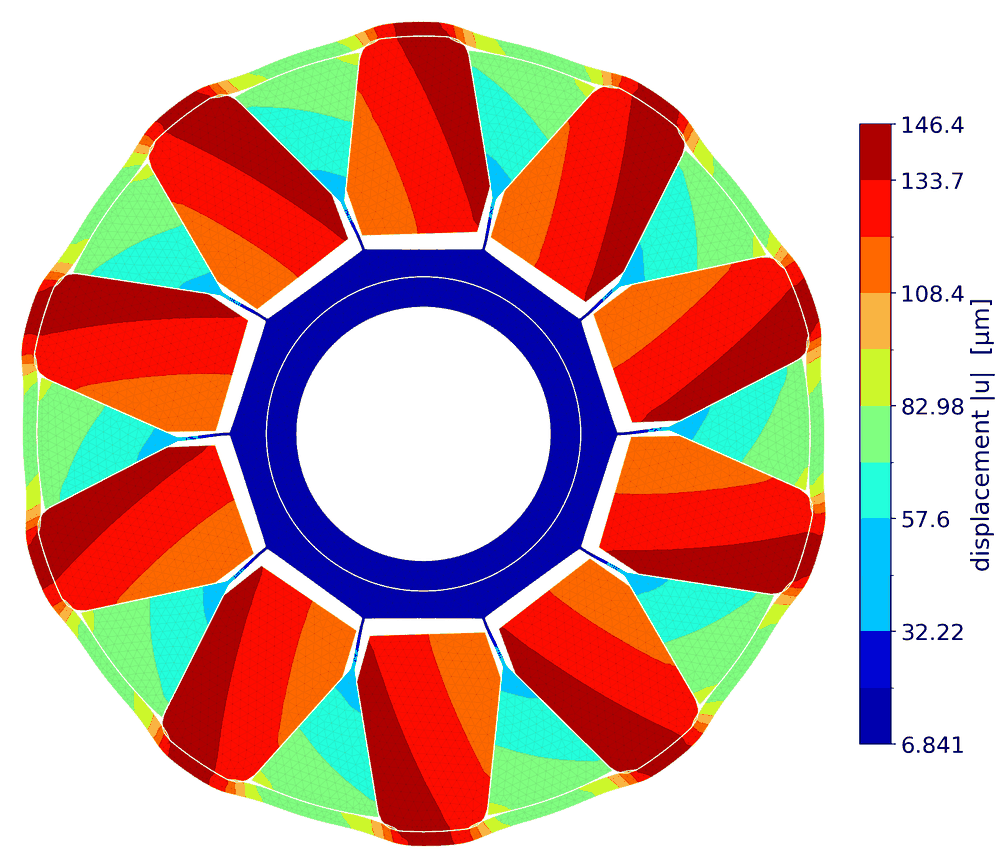
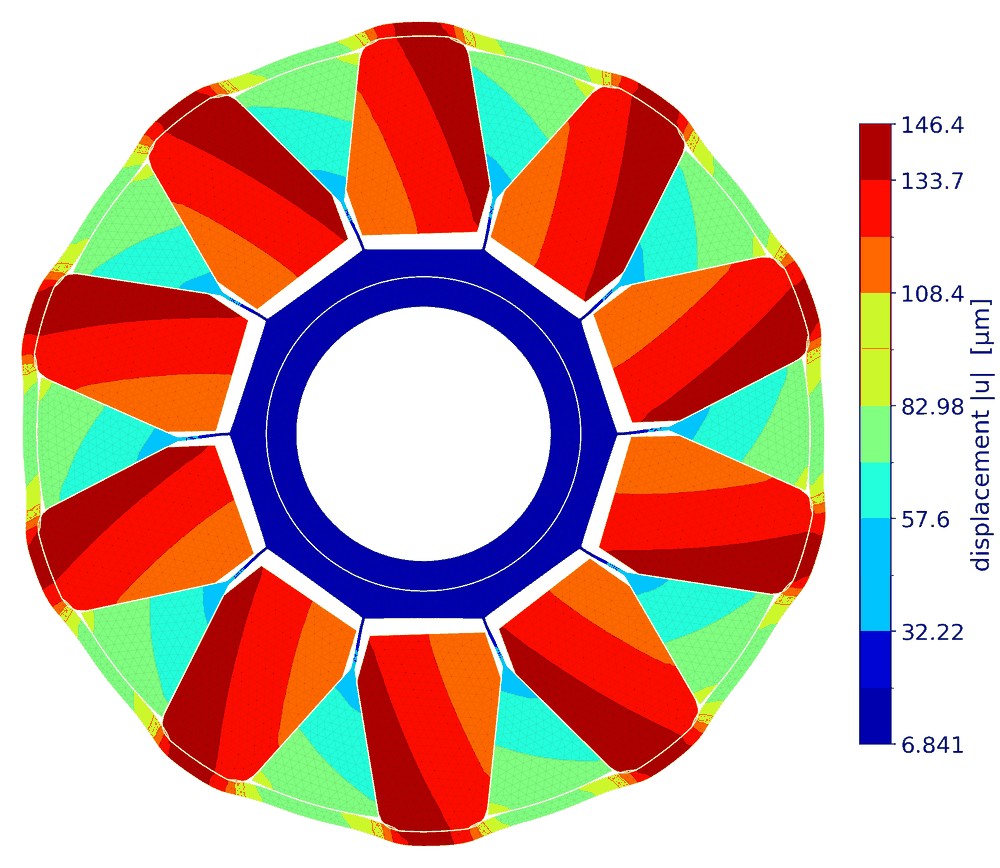
web: one cut for all three landing cards — the whole machine
User 2026-09-16, on the second live page: the three pictures must show the
SAME section of the machine, and preferably the whole of it.  They did not —
the mechanical solve is a full 360 deg ring, and the electromagnetic and
thermal solves are stored as HALF models (both span exactly 180 deg; this
machine is 12 slots / 10 poles, so its smallest periodic sector is a half),
so two round-cornered 2.2:1 wedges sat beside a disc.

The report builders have no full-section option and the fields really are
halves, so the generator completes those two to the full ring — for the
PICTURE only, and by ROTATING the solved half 180 deg, not by mirroring.
That rotation is the periodic continuation the solve itself assumed, so it is
what the other half of the machine actually is; |B| is a magnitude and T is a
scalar, so both survive the sign flip an anti-periodic boundary would carry.
Coincident nodes on the seam are merged, or the per-class nodal average would
paint a hairline down the joint.  The completed mesh then goes through the
SAME builders as before — report._em_maps / _thermal_map / _mech_extra_maps —
so the colour scales are untouched: |B| still caps at 2.39 T (p99.5, raw max
3.63) and the temperature bar still runs 68.93 to 135.2 C, the same numbers
the half pictures carried.  report.py is not changed; the report still prints
the half it solved.

All three are now 1.15:1, so the card box tightens 1.4 -> 1.25:1 (~354 px tall
[…]

diff --git a/web/src/components/landing/Landing.tsx b/web/src/components/landing/Landing.tsx
@@ -24,9 +24,23 @@
  * off the stored per-duty fields (`motor_ai_sim.duty_fields`) — not stock art,
  * not a redraw:
  *
- *   em-field.png    report._em_maps(...)["b"]        CIANO10 200 opt / "L155 motor" / rated 1x9 mm
- *   thermal-map.png report._thermal_map(...)          the same die, configuration and duty
- *   campbell.png    report._campbell_png(...)         the same duty's critical-speed record
+ *   em-field.png            report._em_maps(...)["b"]
+ *   thermal-map.png         report._thermal_map(...)
+ *   rotor-displacement.png  report._mech_extra_maps(...)["disp"]
+ *
+ * all three off CIANO10 200 opt / "L155 motor" / rated 1x9 mm, so the three
+ * cards are one machine at one operating point rather than three unrelated
+ * pretty pictures.
+ *
+ * ONE CUT, THE WHOLE MACHINE (user 2026-09-16).  The mechanical solve is a full
+ * 360° ring; the electromagnetic and thermal ones are stored as HALF models —
+ * this machine is 12 slots / 10 poles, so its smallest periodic sector is a
+ * half, and their figures came out 2.2:1 beside a round rotor.  The generator
+ * completes those two to the full ring by ROTATING the solved half 180°, which
+ * is the periodic continuation the solve itself assumed; |B| is a magnitude and
+ * T is a scalar, so both survive the sign flip an anti-periodic boundary would
+ * carry, and the seam nodes are merged so the ring closes with no hairline.
+ * Nothing in report.py changes: the report still prints the half it solved.
  *
  * They are drawn on white — the report's own background — and sit on a white
  * tile in both themes, so the figure looks the same here as it does on the page
@@ -60,16 +74,20 @@ export const FEATURES: Feature[] = [
   {
     label: 'Electromagnetic FEM',
     src: '/landing/em-field.png',
-    alt: 'Flux-density map of a permanent-magnet machine: half the cross-section '
-      + 'coloured by |B| from 0 to 2.4 tesla, with the colour bar beside it.',
-    hint: 'Flux density |B| — the solved field of a 200 mm machine at its rated duty.',
+    alt: 'Flux-density map of a permanent-magnet machine: the whole '
+      + 'cross-section, twelve slots around ten magnets, coloured by |B| from '
+      + '0 to 2.4 tesla, with the colour bar beside it.',
+    hint: 'Flux density |B| of a 200 mm machine at its rated duty — the solved '
+      + 'half repeated to the full ring, which is the periodicity the solve '
+      + 'itself assumed.',
   },
   {
     label: 'Thermal & duty cycle',
     src: '/landing/thermal-map.png',
-    alt: 'Temperature map of the same cross-section, from 69 °C at the outer '
-      + 'housing to 135 °C in the rotor, with the colour bar beside it.',
-    hint: 'Temperature of the same machine, coupled to the losses of the same run.',
+    alt: 'Temperature map of the same whole cross-section, from 69 °C at the '
+      + 'outer housing to 135 °C in the rotor, with the colour bar beside it.',
+    hint: 'Temperature of the same machine, coupled to the losses of the same '
+      + 'run — the solved half repeated to the full ring, as above.',
   },
   {
     label: 'Mechanical simulation',
@@ -141,16 +159,20 @@ const FeatureCard: React.FC<{ feature: Feature }> = ({ feature }) => (
       {/* The figure keeps the report's own white ground in both themes, so the
           picture on the card and the picture on the page are one picture.
           THE PICTURE IS THE CARD (user 2026-09-16, on the first live page: the
-          images were ~180 px tall and he wanted them to dominate).  1.4:1 is the
-          tallest box the three fit: the rotor is 1.15:1 and fills its height
-          exactly, the two half-machine maps are 2.2:1 and keep a white band
-          above and below — invisible, because the figures' own ground is the
-          same white.  A taller box would only add white; a wider row is the
-          other half of the answer, and that is on the grid below. */}
+          images were ~180 px tall and he wanted them to dominate).  All three
+          are now the SAME CUT of the machine — the whole 360° ring, 1.15:1 —
+          so 1.25:1 is a box they all very nearly fill, ~354 px tall at 1440.
+          They were not always: the electromagnetic and thermal solves are
+          stored as half models and their pictures came out 2.2:1 beside a
+          round rotor (user, on the second live page: the three must show the
+          same section).  The halves are repeated to the full ring when the
+          PNGs are generated — by ROTATING 180°, which is the periodicity the
+          solve itself assumed, not by mirroring — and never in the report,
+          which still prints the half it solved. */}
       <Box sx={{
-        bgcolor: '#ffffff', aspectRatio: '1.4 / 1', p: 0.75,
+        bgcolor: '#ffffff', aspectRatio: '1.25 / 1', p: 0.75,
         // `minHeight: 0` or the flex box's automatic minimum lets a picture
-        // TALLER than 3:2 (the rotor is 1.15:1) push the box past its own
+        // TALLER than the declared ratio push the box past its own
         // aspect ratio — which is how the third card came out 80 px taller
         // than the other two, with white under their labels to match.
         minHeight: 0, overflow: 'hidden',

diff --git a/web/src/App.tsx b/web/src/App.tsx
@@ -148,13 +148,6 @@ const GeometryBuildTimer: React.FC = () => {
 function App() {
   const [themeMode, setThemeMode] = useState<AppMode>(() => loadThemeMode());
   useEffect(() => { saveThemeMode(themeMode); }, [themeMode]);
-  // Adopt the server's mesh block into the browser's mesh.* keys once per
-  // boot — see lib/meshConfigSync for the full-ring sweep this prevents.
-  // HERE, at the root: it used to sit in GeometryBuildTimer, which mounts
-  // only with the Geometry tab, so a browser that opened on Thermal or
-  // Electromagnetic never synced at all — the user's F5 kept "4 sectors"
-  // from the Ø200 on a 12/14 machine (2026-09-09, "нажимаю, но то же самое").
-  useEffect(() => { void syncMeshConfigFromServer(); }, []);
   const appTheme = useMemo(() => buildAppTheme(themeMode), [themeMode]);
   const { activeTab, setActiveTab, showGrid, showAxes, toggleGrid, toggleAxes } = useUIStore();
   const { user, isAdmin, tier, enforced, resolved: authResolved } = useAuth();
@@ -261,6 +254,20 @@ function App() {
     loadServerSweepConfig();
   }, [authPending, signedIn, fetchGeometryFromApi, fetchSchemaFromApi, loadServerSweepConfig]);
 
+  // Adopt the server's mesh block into the browser's mesh.* keys once per
+  // boot — see lib/meshConfigSync for the full-ring sweep this prevents.
+  // HERE, at the root: it used to sit in GeometryBuildTimer, which mounts
+  // only with the Geometry tab, so a browser that opened on Thermal or
+  // Electromagnetic never synced at all — the user's F5 kept "4 sectors"
+  // from the Ø200 on a 12/14 machine (2026-09-09, "нажимаю, но то же самое").
+  // Behind the same gate as the probes above: /api/mesh/config is closed to an
+  // anonymous caller, and the sync has nothing to adopt until there is a
+  // session whose machine it belongs to (401 measured live, 2026-09-16).
+  useEffect(() => {
+    if (authPending || !signedIn) return;
+    void syncMeshConfigFromServer();
+  }, [authPending, signedIn]);
+
   // RECONNECT: the boot probe above runs once, and a backend that was merely
   // slow to wake (first request after a restart imports the whole solver
   // stack) left the app stuck in "Local Mode" until a manual reload — a
@@ -302,7 +309,16 @@ function App() {
   // There's always a working motor ("my copy"): a brand-new user with none gets
   // one created from the current state, so every later edit has somewhere to
   // auto-save.  A short delay lets the panels seed localStorage first.
-  useEffect(() => { const t = setTimeout(() => { ensureActiveMotor(); }, 1200); return () => clearTimeout(t); }, []);
+  // "A brand-new USER" is the point: with nobody signed in there is no account
+  // to own the motor, and the POST /api/presets went out 1.2 s into an
+  // anonymous visit and came back 401 (live, 2026-09-16).  Same gate as the
+  // probes; signing in re-arms the timer, so the first working motor is still
+  // created the moment there is somebody to create it for.
+  useEffect(() => {
+    if (authPending || !signedIn) return;
+    const t = setTimeout(() => { ensureActiveMotor(); }, 1200);
+    return () => clearTimeout(t);
+  }, [authPending, signedIn]);
 
   // The Simulation panel is kept mounted but hidden via display:none while
   // another tab is active.  recharts' ResponsiveContainer measures 0×0 inside

diff --git a/web/src/components/materials/useMotorAssignments.ts b/web/src/components/materials/useMotorAssignments.ts
@@ -10,7 +10,7 @@
  * default directly via PATCH, exactly as before.
  */
 import { useState, useEffect, useCallback } from 'react';
-import { useAuth } from '../../contexts/AuthContext';
+import { useAuth, useApiReady } from '../../contexts/AuthContext';
 import { setDutyMaterial } from '../../lib/dutySettings';
 import { useMotorStore } from '../../stores/motorStore';
 
@@ -39,6 +39,11 @@ function readLocalOverlay(): Partial<MotorAssignments> {
 
 export function useMotorAssignments() {
   const { isAdmin, enforced, tier } = useAuth();
+  // GET /api/materials answers 401 to an anonymous caller, and this hook
+  // mounts at the App root (MaterialOverrideSync) — the landing's first paint
+  // knocked on it (live, 2026-09-16).  Same gate as the geometry/schema
+  // probes; signing in re-runs the effect below and fills the assignment.
+  const ready = useApiReady();
   // Ordinary user on an enforced backend → assignments live client-side.
   const localMode = enforced && !isAdmin;
   // Free-tier client → the motor card's materials are read-only (pro/team
@@ -51,6 +56,7 @@ export function useMotorAssignments() {
   const [error, setError]             = useState<string | null>(null);
 
   const refresh = useCallback(() => {
+    if (!ready) return;
     setLoading(true);
     fetch(API, { cache: 'no-store' })
       .then(r => { if (!r.ok) throw new Error(`HTTP ${r.status}`); return r.json(); })
@@ -60,7 +66,7 @@ export function useMotorAssignments() {
         setAssignments(merged); setLoading(false);
       })
       .catch(e => { setError(String(e)); setLoading(false); });
-  }, [localMode]);
+  }, [localMode, ready]);
 
   // The part LIST depends on the geometry: a sleeve exists only while
   // sleeve_thickness > 0, and the backend adds/drops the `sleeve` key of the

diff --git a/web/src/components/materials/useMaterialsLibrary.ts b/web/src/components/materials/useMaterialsLibrary.ts
@@ -14,7 +14,7 @@
 import { useCallback, useEffect, useMemo, useState } from 'react';
 import { collection, getDocs } from 'firebase/firestore';
 import { db } from '../../lib/firebase';
-import { useAuth } from '../../contexts/AuthContext';
+import { useAuth, useApiReady } from '../../contexts/AuthContext';
 
 // ─── Types (mirror Python dataclasses) ───────────────────────────────────────
 
@@ -152,6 +152,7 @@ async function readMine(uid: string): Promise<MineLayer> {
 
 export function useMaterialsLibrary() {
   const { user } = useAuth();
+  const ready = useApiReady();
   const uid = user?.uid ?? null;
 
   const [base, setBase] = useState<MaterialsLibrary | null>(null);  // built-in + global
@@ -168,7 +169,15 @@ export function useMaterialsLibrary() {
       .catch(e => { setError(String(e)); setLoading(false); });
   }, []);
 
-  useEffect(() => { reloadBase(); }, [reloadBase]);
+  // NOT before /api/me has answered, and not while nobody is signed in: this
+  // hook mounts at the App ROOT (MaterialOverrideSync), so on an anonymous
+  // visit the library fetch went out with the landing's first paint and came
+  // back 401 (live, 2026-09-16).  `useApiReady` is the gate the geometry and
+  // schema probes already sit behind; flipping it (the sign-in) re-runs this
+  // effect, so the tab fills itself the moment there is a session — no page
+  // reload.  A MANUAL `reload()` is left ungated on purpose: it comes from a
+  // signed-in hand.
+  useEffect(() => { if (!ready) return; reloadBase(); }, [ready, reloadBase]);
 
   // per-user "my materials" (client Firestore) — reloadable after copy/edit/delete
   const reloadMine = useCallback(async () => {

diff --git a/web/src/contexts/AuthContext.tsx b/web/src/contexts/AuthContext.tsx
@@ -67,6 +67,31 @@ const AuthCtx = createContext<AuthState>({
 
 export const useAuth = () => useContext(AuthCtx);
 
+/** May we call an `/api/*` route that a closed server gates?
+ *
+ *  Pure, and exported for the node test.  Two conditions, in this order:
+ *    • `/api/me` must have ANSWERED — `enforced` starts false, so before the
+ *      answer every caller reads "this backend does not enforce auth" and
+ *      fires at a door that 401s it.  A RESTORED session (`hasUser`, read
+ *      synchronously from localStorage) never waits, so a signed-in boot is
+ *      byte for byte what it was.
+ *    • and the visitor must be signed in — unless the backend does not
+ *      enforce auth at all (the local dev server), where everything is open.
+ *
+ *  This is the same test `App` applies to the geometry/schema probes
+ *  (`!authPending && signedIn`), in one place, for the hooks that fire from
+ *  their own mount effect and cannot see App's locals. */
+export function apiReady(resolved: boolean, hasUser: boolean, enforced: boolean): boolean {
+  if (!resolved && !hasUser) return false;
+  return !enforced || hasUser;
+}
+
+/** Hook form of `apiReady` — gate every boot-time fetch on it. */
+export function useApiReady(): boolean {
+  const { user, enforced, resolved } = useAuth();
+  return apiReady(resolved, !!user, enforced);
+}
+
 function toAuthUser(u: SessionUser | null): AuthUser | null {
   if (!u || !u.email) return null;
   return { uid: u.email, email: u.email, displayName: u.name || u.email, photoURL: u.picture };

diff --git a/web/src/components/materials/usePartStates.ts b/web/src/components/materials/usePartStates.ts
@@ -18,7 +18,7 @@
  * default, exactly as with materials.
  */
 import { useState, useEffect, useCallback } from 'react';
-import { useAuth } from '../../contexts/AuthContext';
+import { useAuth, useApiReady } from '../../contexts/AuthContext';
 
 export type PartState = 'included' | 'reference' | 'excluded';
 
@@ -75,6 +75,12 @@ function prune(m: PartStates): PartStates {
 
 export function usePartStates() {
   const { isAdmin, enforced, tier } = useAuth();
+  // GET /api/parts is closed to an anonymous caller, and this hook mounts at
+  // the App root (MaterialOverrideSync) — so the very first paint of the
+  // landing page knocked on it and got a 401 (live, 2026-09-16).  Same gate
+  // as the geometry/schema probes: nothing until /api/me has answered AND
+  // there is a session (or the backend does not enforce auth at all).
+  const ready = useApiReady();
   const localMode  = enforced && !isAdmin;
   const restricted = enforced && !isAdmin && tier !== 'pro' && tier !== 'team';
 
@@ -84,13 +90,14 @@ export function usePartStates() {
   const [error, setError]     = useState<string | null>(null);
 
   const refresh = useCallback(() => {
+    if (!ready) return;
     setLoading(true);
     fetchShared().then((shared: PartStates) => {
       let merged = { ...(shared || {}) };
       if (localMode) merged = { ...merged, ...readLocalOverlay() };
       setStates(prune(merged)); setLoading(false);
     });
-  }, [localMode]);
+  }, [localMode, ready]);
 
   useEffect(() => { refresh(); }, [refresh]);
 

diff --git a/web/src/modules/moduleTabs.ts b/web/src/modules/moduleTabs.ts
@@ -7,6 +7,7 @@
  * tab definitions — so the shell never breaks if /api/modules is unreachable.
  */
 import { useEffect, useState } from 'react';
+import { useApiReady } from '../contexts/AuthContext';
 
 const API = (import.meta.env.VITE_API_URL ?? 'http://localhost:8001') as string;
 
@@ -14,7 +15,13 @@ export interface PanelInfo { title: string; order: number; }
 
 export function useModulePanels(): Record<string, PanelInfo> {
   const [panels, setPanels] = useState<Record<string, PanelInfo>>({});
+  // The manifest list is gated server-side: to an anonymous visitor this was a
+  // 401 fired from the first paint (live, 2026-09-16).  Nothing before /api/me
+  // has answered and somebody is signed in; until then the static fallback
+  // ({}) is exactly what a failed fetch would have left anyway.
+  const ready = useApiReady();
   useEffect(() => {
+    if (!ready) return;
     let alive = true;
     fetch(`${API}/api/modules`)
       .then((r) => (r.ok ? r.json() : null))
@@ -34,6 +41,6 @@ export function useModulePanels(): Record<string, PanelInfo> {
       })
       .catch(() => { /* keep {} — App uses its static fallback */ });
     return () => { alive = false; };
-  }, []);
+  }, [ready]);
   return panels;
 }
